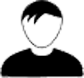
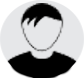
...

diff --git a/projects/contact/HTML/contact.HTML b/projects/contact/HTML/contact.HTML
@@ -1,65 +1,71 @@
 <html>
 
 <head>
-    <link rel="stylesheet" type="text/css" href="../style/main1.css">
-    <link rel="stylesheet" href="../style/modal1.css">
-    <link rel="stylesheet" href="https://stackpath.bootstrapcdn.com/font-awesome/4.7.0/css/font-awesome.min.css">
-    <link
-        href="https://fonts.googleapis.com/css2?family=Open+Sans:ital,wght@0,600;1,300&family=Raleway:ital,wght@0,300;0,400;1,100;1,200&display=swap"
-        rel="stylesheet">
-    <link href="https://fonts.googleapis.com/css2?family=Open+Sans:wght@300&display=swap" rel="stylesheet">
+	<link rel="stylesheet" type="text/css" href="../style/main1.css">
+	<link rel="stylesheet" href="../style/modal1.css">
+	<link rel="stylesheet" href="https://stackpath.bootstrapcdn.com/font-awesome/4.7.0/css/font-awesome.min.css">
+	<link
+		href="https://fonts.googleapis.com/css2?family=Open+Sans:ital,wght@0,600;1,300&family=Raleway:ital,wght@0,300;0,400;1,100;1,200&display=swap"
+		rel="stylesheet">
+	<link href="https://fonts.googleapis.com/css2?family=Open+Sans:wght@300&display=swap" rel="stylesheet">
 
 </head>
 
 <body>
-    <div class="modal">
-        <div class="modal-wrapper"></div>
-        <div onclick="closeModal()" class="backraund"></div>
-    </div>
-    <div class="section no-value">
-        <div class="f-c wrapper">
-            <div class="image-wrapper">
-            </div>
-            <div class="text-no-value-wrapper">
-                <h1>No contacts yet</h1>
-            </div>
-            <div onclick="buildModal()" class="f-c create-botton">
-                <svg width="20" height="20" viewBox="0 0 24 24" class="NSy2Hd RTiFqe undefined">
-                    <path fill="none" d="M0 0h24v24H0V0z"></path>
-                    <path
-                        d="M12 6c1.1 0 2 .9 2 2s-.9 2-2 2-2-.9-2-2 .9-2 2-2m0 10c2.7 0 5.8 1.29 6 2H6c.23-.72 3.31-2 6-2m0-12C9.79 4 8 5.79 8 8s1.79 4 4 4 4-1.79 4-4-1.79-4-4-4zm0 10c-2.67 0-8 1.34-8 4v2h16v-2c0-2.66-5.33-4-8-4z">
-                    </path>
-                </svg>
-                <div class="create">Create contact</div>
-            </div>
-        </div>
-    </div>
+	<div class="modal">
+		<div class="modal-wrapper"></div>
+		<div onclick="closeModal()" class="backraund"></div>
+	</div>
+	<div class="section no-value">
+		<div class="f-c wrapper">
+			<div class="image-wrapper">
+			</div>
+			<div class="text-no-value-wrapper">
+				<h1>No contacts yet</h1>
+			</div>
+			<div onclick="buildModal()" class="f-c create-botton">
+				<svg class="svg1" width="20" height="20" viewBox="0 0 24 24" class="NSy2Hd RTiFqe undefined">
+					<path fill="none" d="M0 0h24v24H0V0z"></path>
+					<path
+						d="M12 6c1.1 0 2 .9 2 2s-.9 2-2 2-2-.9-2-2 .9-2 2-2m0 10c2.7 0 5.8 1.29 6 2H6c.23-.72 3.31-2 6-2m0-12C9.79 4 8 5.79 8 8s1.79 4 4 4 4-1.79 4-4-1.79-4-4-4zm0 10c-2.67 0-8 1.34-8 4v2h16v-2c0-2.66-5.33-4-8-4z">
+					</path>
+				</svg>
+				<div class="create">Create contact</div>
+			</div>
+		</div>
+	</div>
 
 
 
-    <script id="template" type="text/x-handlebars-template">
-        <div class="profile-wrapper">
-            <img class="upload-icon" src="../Images/upload.png" alt="">
-        </div>
+	<script id="template" type="text/x-handlebars-template">
+  <div class="header"></div>
+  <div class="body">
+		<div class="row1">
+			<div class="profile-wrapper">
+				<img class="profile-img" src="../Images/first avatar.png " data-iml="15080.979999998817">
+				<svg width="20" height="20" viewBox="0 0 24 24" class="upload-icon"><path fill="none" d="M0 0h24v24H0V0z"></path><path d="M14.12 4l1.83 2H20v12H4V6h4.05l1.83-2h4.24M15 2H9L7.17 4H4c-1.1 0-2 .9-2 2v12c0 1.1.9 2 2 2h16c1.1 0 2-.9 2-2V6c0-1.1-.9-2-2-2h-3.17L15 2zm-3 7c1.65 0 3 1.35 3 3s-1.35 3-3 3-3-1.35-3-3 1.35-3 3-3m0-2c-2.76 0-5 2.24-5 5s2.24 5 5 5 5-2.24 5-5-2.24-5-5-5z"></path></svg>
+			</div>
+			<div class="input">
+				<input type="text" required/>
+				<a>Username</a>
+			</div>
+			<div class="input">
+				<input type="text" required/>
+				<a>Email</a>
+			</div>
 
-    <div class="inps-wrapper">
-    
-    <label for="inp" class="inp">
-        <input class="input3" onkeyup="emailAndPasswordCheck()" type="text" id="inp">
-        <span class="label">Email</span>
-        <span class="focus-bg"></span>
-      </label>
-      <label for="inp" class="inp">
-        <input onkeyup="emailAndPasswordCheck()" type="text" class="input4" id="inp">
-        <span class="label">Password</span>
-        <span class="focus-bg"></span>
-      </label>
-    </div>
+		</div>
+
+	</div>
+	<div class="footer">
+
+	</div>
+
     </script>
-    <script src="https://cdnjs.cloudflare.com/ajax/libs/lodash.js/4.17.15/lodash.min.js"></script>
-    <script src="https://ajax.googleapis.com/ajax/libs/jquery/3.4.1/jquery.min.js"></script>
-    <script src="https://cdnjs.cloudflare.com/ajax/libs/handlebars.js/4.7.6/handlebars.min.js"></script>
-    <script src="../JavaScript/contact.js"></script>
+	<script src="https://cdnjs.cloudflare.com/ajax/libs/lodash.js/4.17.15/lodash.min.js"></script>
+	<script src="https://ajax.googleapis.com/ajax/libs/jquery/3.4.1/jquery.min.js"></script>
+	<script src="https://cdnjs.cloudflare.com/ajax/libs/handlebars.js/4.7.6/handlebars.min.js"></script>
+	<script src="../JavaScript/contact.js"></script>
 </body>
 
 </html>+

diff --git a/projects/contact/style/modal1.css b/projects/contact/style/modal1.css
@@ -11,8 +11,7 @@
     width: 100%;
     height: 100%;
     overflow: auto;
-    background-color: rgb(0, 0, 0);
-    background-color: rgba(0, 0, 0, 0.7);
+    background-color: #7f7f7f;
     align-items: center;
     justify-content: center;
 }
@@ -39,12 +38,45 @@
 
 .modal-wrapper {
     background-color: #ffffff;
-    width: 397px;
+    width: 700px;
     align-items: center;
     border-radius: 14px;
     position: relative;
-    height: 496px;
+    height: 404px;
     z-index: 2;
+    box-shadow: 2px 4px 39px -1px rgb(68 68 68 / 97%);
+}
+
+.header {
+    align-items: center;
+    background-color: #fff;
+    border-bottom: 1px solid #dadce0;
+    height: 65px;
+    width: 700px;
+    border-radius: 14px 14px 0px 0px;
+}
+
+.body {
+    height: 72%;
+    width: 700px;
+}
+
+.footer {
+    align-items: center;
+    background-color: #fff;
+    border-top: 1px solid #dadce0;
+    height: 49px;
+    width: 700px;
+    border-radius: 0px 0px 14px 14px;
+}
+
+/* -----------------------------------------------
+/* rows    
+----------------------------------------------- */
+
+.row1 {
+    display: flex;
+    padding-top: 25px;
 }
 
 /* -----------------------------------------------
@@ -52,28 +84,27 @@
 ----------------------------------------------- */
 
 .profile-wrapper {
-    position: absolute;
-    top: -40px;
-    left: 39%;
+    position: relative;
     z-index: 1;
+    margin-left: 25px;
+    padding-right: 23px;
 }
 
-.profile-wrapper::before {
-    content: "";
-    display: block;
-    background-repeat: no-repeat;
+.profile-img {
+    width: 55px;
+    height: 55px;
     border-radius: 100%;
-    height: 78px;
-    width: 84px;
-    background-image: url(../Images/avatar.png)
 }
 
 .upload-icon {
-    width: auto;
-    height: auto;
+    background: rgba(0, 0, 0, 0.26);
+    border-radius: 50%;
+    fill: white;
+    right: 3px;
     opacity: 0;
+    padding: 12px;
     position: absolute;
-    top: 0px;
+    top: 3px;
 }
 
 .upload-icon:hover {
@@ -88,87 +119,60 @@
     margin: 0 46px;
 }
 
-.inp {
-    position: relative;
+.input {
+    display: grid;
+    margin: 17px;
+    width: 202px;
+}
+
+.input input {
+    border: 0px;
+    background: transparent;
+    font: inherit;
+    color: inherit;
     border-radius: 3px;
-    width: 100%;
-    overflow: hidden;
-}
-
-.inp .label {
-    position: absolute;
-    top: 20px;
-    left: 12px;
-    font-size: 16px;
-    color: rgba(0, 0, 0, 0.5);
-    font-weight: 500;
-    -webkit-transform-origin: 0 0;
-    transform-origin: 0 0;
-    -webkit-transform: translate3d(0, 0, 0);
-    transform: translate3d(0, 0, 0);
-    -webkit-transition: all 0.2s ease;
-    transition: all 0.2s ease;
-    pointer-events: none;
-    background: transparent;
-}
-
-.inp .focus-bg {
-    position: absolute;
-    top: 0;
-    left: 0;
-    width: 100%;
-    height: 100%;
-    background: rgba(0, 0, 0, 0.05);
-    z-index: -1;
-    -webkit-transform: scaleX(0);
-    transform: scaleX(0);
-    -webkit-transform-origin: left;
-    transform-origin: left;
-}
-
-.inp input {
-    -webkit-appearance: none;
-    -moz-appearance: none;
-    appearance: none;
-    width: 100%;
-    border: 0;
-    font-family: inherit;
-    padding: 16px 12px 0 12px;
-    height: 56px;
-    font-size: 16px;
-    font-weight: 400;
-    background: transparent;
-    box-shadow: inset 0 -1px 0 rgba(0, 0, 0, 0.3);
-    color: #000;
-    -webkit-transition: all 0.15s ease;
-    transition: all 0.15s ease;
-}
-
-.inp input:hover {
-    box-shadow: inset 0 -1px 0 rgba(0, 0, 0, 0.5);
-}
-
-.inp input:not(:placeholder-shown)+.label {
-    color: rgba(0, 0, 0, 0.5);
-    -webkit-transform: translate3d(0, -12px, 0) scale(0.75);
-    transform: translate3d(0, -12px, 0) scale(0.75);
-}
-
-.inp input:focus {
-    background: white;
+    padding: 10px;
     outline: none;
-    box-shadow: inset 0 -2px 0 #116dff;
+    box-shadow: none;
+    -webkit-appearance: none;
+    transition: 0.2s ease;
+    font-weight: 300;
+    font-family: 'Raleway', sans-serif;
+    color: #8f8f8f;
+    width: 191px;
+    border: 0px;
+    border-bottom: 1px solid rgb(230, 230, 230);
+    border-radius: 0px;
 }
 
-.inp input:focus+.label {
-    color: #116dff;
-    -webkit-transform: translate3d(0, -12px, 0) scale(0.75);
-    transform: translate3d(0, -12px, 0) scale(0.75);
+.input input:focus {
+    border-bottom: 1px solid #1a73e8;
+    transition: 0.5s;
 }
 
-.inp input:focus+.label+.focus-bg {
-    -webkit-transform: scaleX(1);
-    transform: scaleX(1);
-    -webkit-transition: all 0.1s ease;
-    transition: all 0.1s ease;
+.input a {
+    position: relative;
+    margin-top: -25px;
+    padding: 0 4px;
+    left: 2px;
+    color: black;
+    pointer-events: none;
+    user-select: none;
+    width: max-content;
+    height: max-content;
+    background: transparent;
+    transition: 0.2s ease;
+    font-size: 14px;
+    font-weight: 300;
+    font-family: 'Raleway', sans-serif;
+}
+
+.input input:focus+a, .input input:valid+a {
+    margin-top: -49px;
+    left: -5px;
+    font-size: 13px;
+}
+
+.input input:focus+a {
+    color: #1a73e8;
 }

diff --git a/projects/contact/style/main1.css b/projects/contact/style/main1.css
@@ -72,6 +72,6 @@ first page
 	font-weight: 900;
 }
 
-svg {
+.svg1 {
 	fill: var(--gm-colortextbutton-ink-color, #1a73e8);
 }
